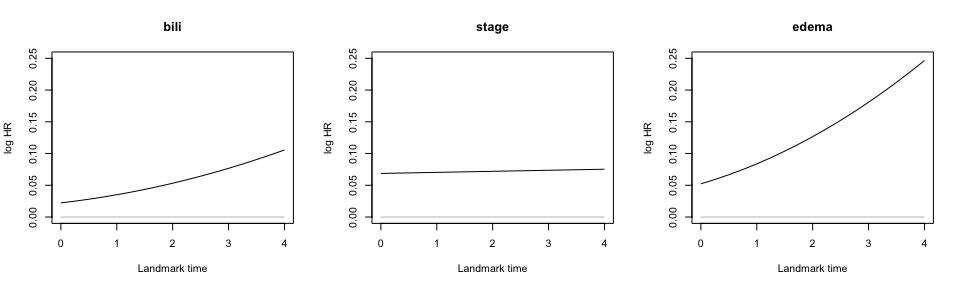
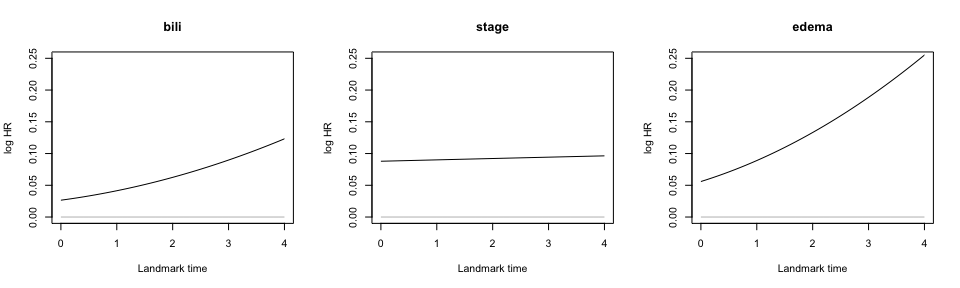
Update tutorials

diff --git a/README.md b/README.md
@@ -1,24 +1,24 @@
-- [1 dynamicLM](https://github.com/thehanlab/dynamicLM/tree/main?tab=readme-ov-file#1-dynamiclm)
-- [2 Introduction](https://github.com/thehanlab/dynamicLM/tree/main?tab=readme-ov-file#2-introduction)
-  - [2.1 What is landmarking and when is it used?](https://github.com/thehanlab/dynamicLM/tree/main?tab=readme-ov-file#21-what-is-landmarking-and-when-is-it-used)
-  - [2.2 Installation](https://github.com/thehanlab/dynamicLM/tree/main?tab=readme-ov-file#22-installation)
-- [3 Tutorial: basic example](https://github.com/thehanlab/dynamicLM/tree/main?tab=readme-ov-file#3-tutorial-basic-example)
-  - [3.1 Data preparation](https://github.com/thehanlab/dynamicLM/tree/main?tab=readme-ov-file#31-data-preparation)
-    - [3.1.1 Data](https://github.com/thehanlab/dynamicLM/tree/main?tab=readme-ov-file#311-data)
-    - [3.1.2 Build a super data set](https://github.com/thehanlab/dynamicLM/tree/main?tab=readme-ov-file#312-build-a-super-data-set)
-  - [3.2 Model fitting](https://github.com/thehanlab/dynamicLM/tree/main?tab=readme-ov-file#32-model-fitting)
-    - [3.2.1 Traditional (unpenalized) landmark supermodel](https://github.com/thehanlab/dynamicLM/tree/main?tab=readme-ov-file#321-traditional-unpenalized-landmark-supermodel)
-    - [3.2.2 Penalized landmark supermodel](https://github.com/thehanlab/dynamicLM/tree/main?tab=readme-ov-file#322-penalized-landmark-supermodel)
-  - [3.3 Prediction](https://github.com/thehanlab/dynamicLM/tree/main?tab=readme-ov-file#33-prediction)
-    - [3.3.1 Training data](https://github.com/thehanlab/dynamicLM/tree/main?tab=readme-ov-file#331-training-data)
-    - [3.3.2 Testing data](https://github.com/thehanlab/dynamicLM/tree/main?tab=readme-ov-file#332-testing-data)
-  - [3.4 Model evaluation](https://github.com/thehanlab/dynamicLM/tree/main?tab=readme-ov-file#34-model-evaluation)
-    - [3.4.1 Calibration plots](https://github.com/thehanlab/dynamicLM/tree/main?tab=readme-ov-file#341-calibration-plots)
-    - [3.4.2 Predictive performance](https://github.com/thehanlab/dynamicLM/tree/main?tab=readme-ov-file#342-predictive-performance)
-    - [3.4.3 Bootstrapping](https://github.com/thehanlab/dynamicLM/tree/main?tab=readme-ov-file#343-bootstrapping)
-    - [3.4.4 External validation](https://github.com/thehanlab/dynamicLM/tree/main?tab=readme-ov-file#344-external-validation)
-    - [3.4.5 Visualize individual dynamic risk trajectories](https://github.com/thehanlab/dynamicLM/tree/main?tab=readme-ov-file#345-visualize-individual-dynamic-risk-trajectories)
-- [4 References](https://github.com/thehanlab/dynamicLM/tree/main?tab=readme-ov-file#4-references)
+- [1 dynamicLM](#dynamiclm)
+- [2 Introduction](#introduction)
+  - [2.1 What is landmarking and when is it used?](#what-is-landmarking-and-when-is-it-used)
+  - [2.2 Installation](#installation)
+- [3 Tutorial: basic example](#tutorial-basic-example)
+  - [3.1 Data preparation](#data-preparation)
+    - [3.1.1 Data](#data)
+    - [3.1.2 Build a super data set](#build-a-super-data-set)
+  - [3.2 Model fitting](#model-fitting)
+    - [3.2.1 Traditional (unpenalized) landmark supermodel](#traditional-unpenalized-landmark-supermodel)
+    - [3.2.2 Penalized landmark supermodel](#penalized-landmark-supermodel)
+  - [3.3 Prediction](#prediction)
+    - [3.3.1 Training data](#training-data)
+    - [3.3.2 Testing data](#testing-data)
+  - [3.4 Model evaluation](#model-evaluation)
+    - [3.4.1 Calibration plots](#calibration-plots)
+    - [3.4.2 Predictive performance](#predictive-performance)
+    - [3.4.3 Bootstrapping](#bootstrapping)
+    - [3.4.4 External validation](#external-validation)
+    - [3.4.5 Visualize individual dynamic risk trajectories](#visualize-individual-dynamic-risk-trajectories)
+- [4 References](#references)
 
 <!-- README.md is generated from README.Rmd. Please edit that file -->
 
@@ -766,6 +766,8 @@ fitting the model (i.e., when calling `dynamic_lm()`).
 scores <- score(list("LM" = supermodel, "penLM" = supermodel_pen),
               times = c(0, 2, 4), metrics = "auc",
               split.method = "bootcv", B = 10)       # 10 bootstraps
+#> 
+#> --> WARNING: 1 bootstrap(s) dropped due to errors/unreliable results. Results are computed on the remaining iterations.
 ```
 
 ### 3.4.4 External validation
@@ -802,11 +804,10 @@ We turn our data into long-form data to plot.
 
 ``` r
 # Select individuals
-idx <- pbc_df$id %in% c(231, 29) #c(26, 130, 231, 290 ) #c(3,7,29) #36:40 #11:20 #3,7, (29,34,35)
-# idx <- pbc_df$id %in% c(235, 242, 120)
+idx <- pbc_df$id %in% c(231, 29)
 
 # Prediction time points 
-x <- seq(0, 4, by = 0.05)
+x <- seq(0, 4, by = 0.5)
 
 # Stack landmark datasets
 dat <- stack_data(pbc_df[idx, ], outcome, x, w, covars, format = "long", 
@@ -816,13 +817,16 @@ dat <- dat[order(dat$id, dat$LM), ]
 ```
 
 ``` r
-print(dat[dat$LM %in% c(0, 2, 4), c("id", "time", "status", "LM", supermodel$lm_covs)])
-#>         id time status LM stage bili albumin
-#> 182     29  5.0      0  0     2  0.7    3.78
-#> 18420   29  7.0      0  2     2  0.6    3.90
-#> 1868    29  9.0      0  4     2  0.5    3.74
-#> 1517   231  3.2      2  0     4  3.4    1.96
-#> 151916 231  3.2      2  2     4  8.1    3.06
+print(dat[dat$LM %in% 0:3, c("id", "time", "status", "LM", supermodel$lm_covs)])
+#>        id time status LM stage bili albumin
+#> 182    29  5.0      0  0     2  0.7    3.78
+#> 184    29  6.0      0  1     2  0.6    3.90
+#> 1842   29  7.0      0  2     2  0.6    3.90
+#> 1851   29  8.0      0  3     2  0.5    3.74
+#> 1517  231  3.2      2  0     4  3.4    1.96
+#> 1518  231  3.2      2  1     4  4.4    3.25
+#> 15191 231  3.2      2  2     4  8.1    3.06
+#> 15201 231  3.2      2  3     4 14.8    2.89
 ```
 
 ``` r
@@ -830,15 +834,13 @@ plotrisk(supermodel, dat, format = "long", ylim = c(0, 0.35),
          x.legend = "topleft")
 ```
 
-<img src="man/figures/README-risk-1.png" width="100%" /> We can see that
-the individual (id = 29) with lower stage, low and constant bilirunbin
-levels, and constant albumin levels generally has a lower and largely
-unchanged 5-year risk of transplant. The individual (id = 231) with
-higher stage has a higher initial risk, but an increase in albumin
-levels at around landmark 2, leads to a much improved (lower) risk of
-transplant. This can be explained by the dynamic hazard rate of albumin
-(seen above) which is protective for higher levels and has a larger
-effect than bilirunbin.
+<img src="man/figures/README-risk-1.png" width="100%" />
+
+We can see that the individual with higher bilirunbin levels (id=231)
+has a higher and increasing 5-year risk of transplant. This can be
+explained by the dynamic hazard rate of bilirunbin (seen above).
+Further, the risk of transplant rapidly increases when the bilirunbin
+levels rise.
 
 # 4 References
 

diff --git a/tutorials/tutorial2-recurrence-data.md b/tutorials/tutorial2-recurrence-data.md
@@ -529,8 +529,8 @@ plotrisk(supermodel, dat, format = "long", x.legend = "topright")
 
 <img src="man/figures/README-plotrisk-1.png" width="100%" />
 
-We can see that the male has a higher and increasing 5-year risk of
-recurrence that peaks around 1 year, and then rapidly decreases. This
-can be explained by the dynamic hazard rate of being male (seen above).
-In comparison, the 5-year risk of recurrent for the female remains
-relatively constant.
+We can see that the male (ID2412) has a higher and increasing 5-year
+risk of recurrence that peaks around 1 year, and then rapidly decreases.
+This can be explained by the dynamic hazard rate of being male (seen
+above). In comparison, the 5-year risk of recurrent for the female
+remains relatively constant.
